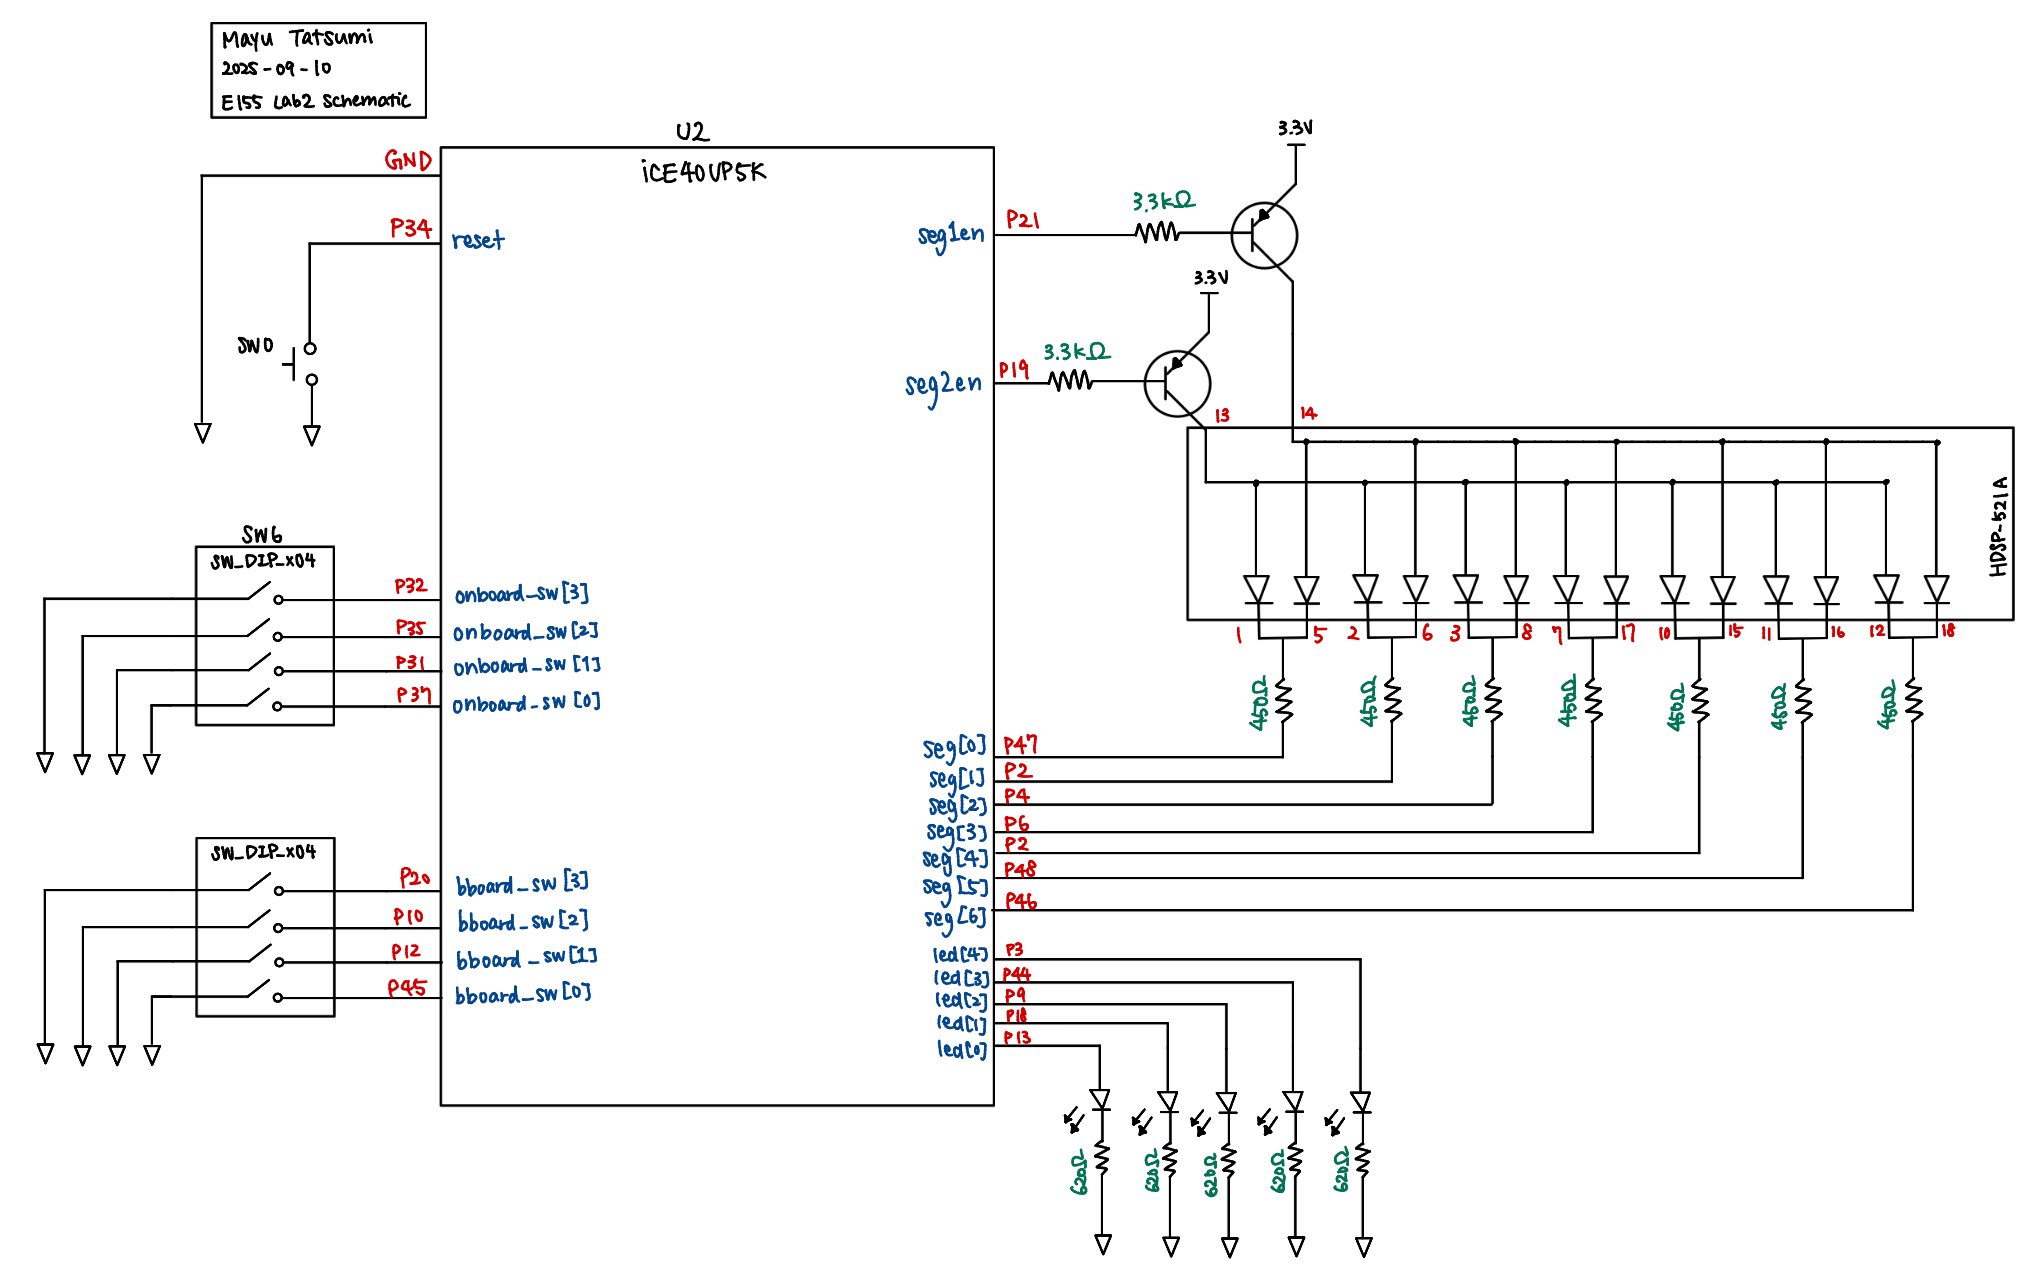
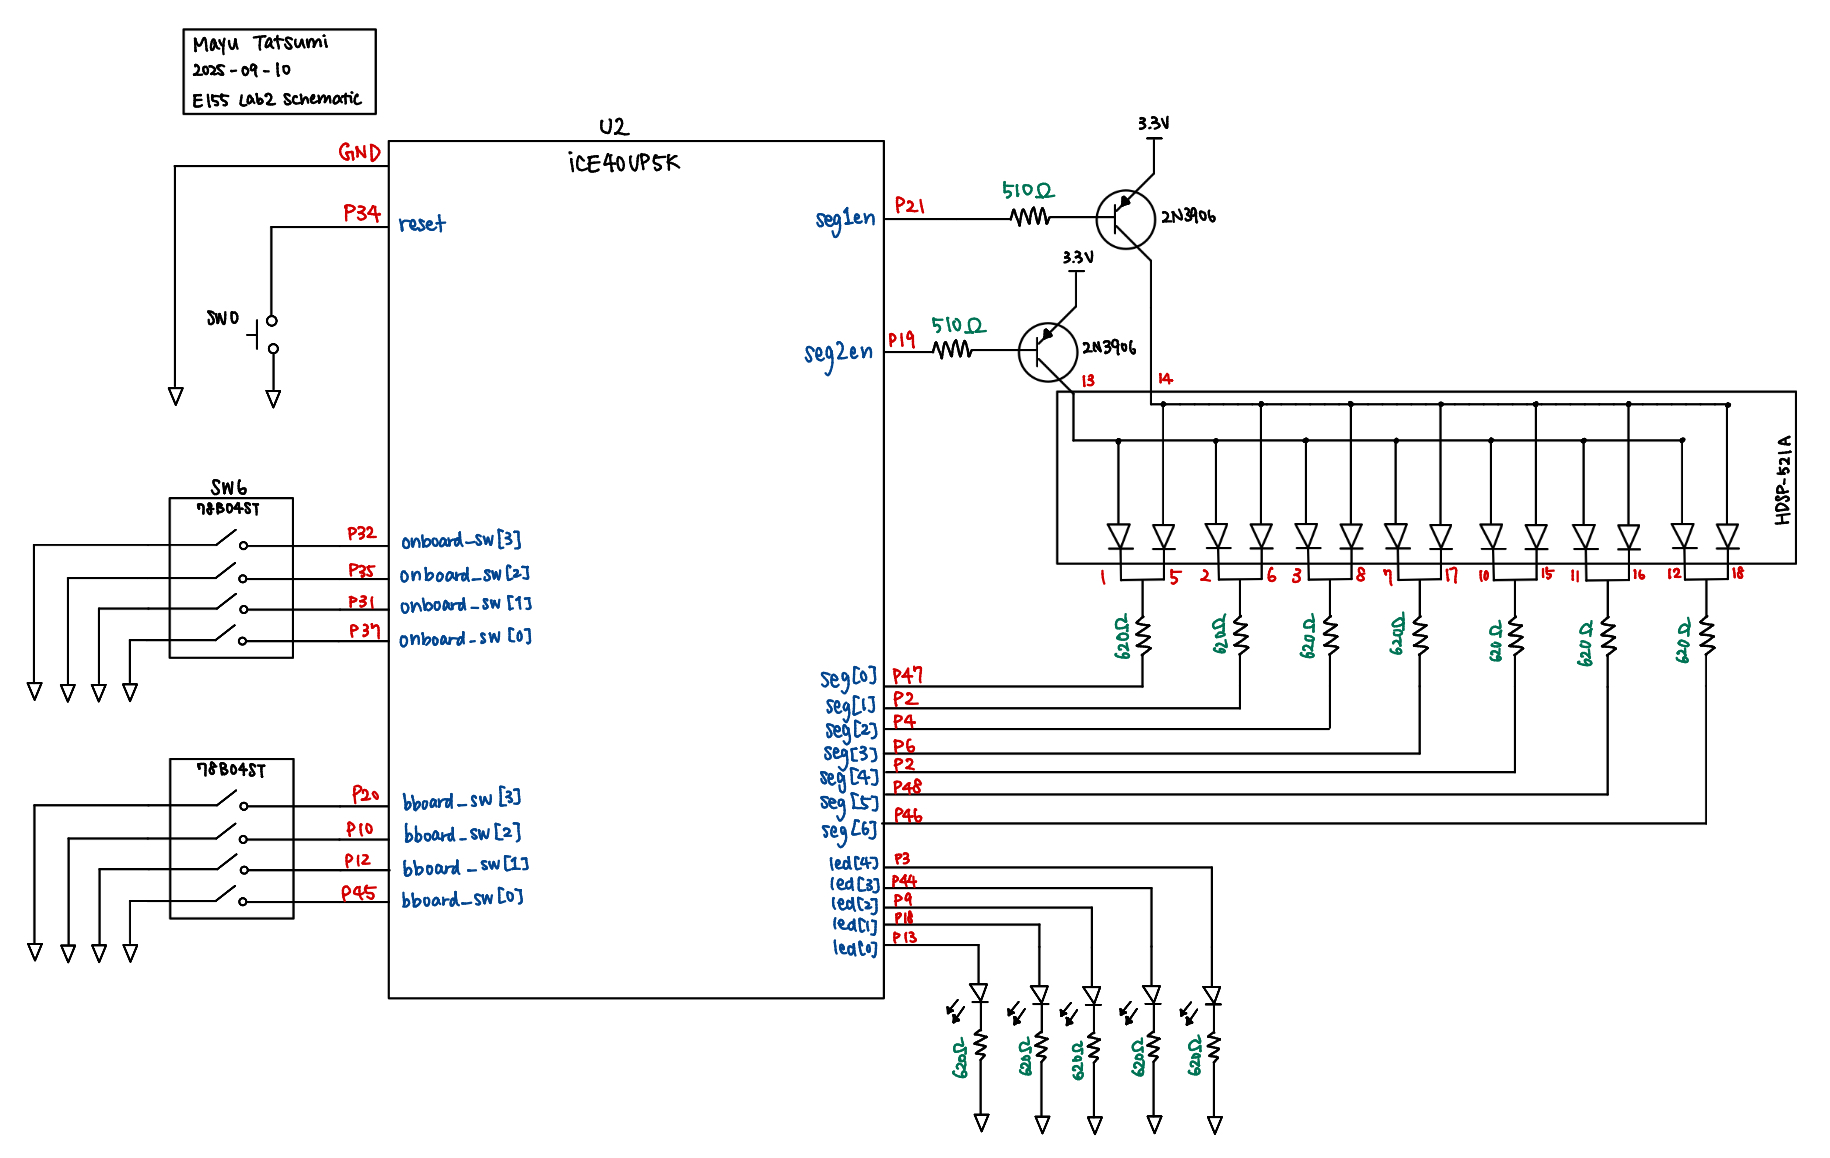
Built site for gh-pages

Changed region(s): [[0.0, 0.0, 0.9967, 0.9948]]

diff --git a/labs/lab2/lab2.html b/labs/lab2/lab2.html
@@ -220,9 +220,9 @@ window.Quarto = {
 <section id="design-and-testing-methodology" class="level2">
 <h2 class="anchored" data-anchor-id="design-and-testing-methodology">Design and Testing Methodology</h2>
 <p>The time-multiplexed dual seven-segment display was controlled by two enable signals and 7 segment values. Due to the shared resources of the wires and pins, it was necessary to oscillate the enable signals and the segment values, which each connected to the cathodes. The oscillation made sure that only one display would be on at one time, with the correct value. The enable signals each connected to the common anode of a seven-segment display, and if one was high, the other was low to ensure only one would be on. While each cathode shared a pin with the same cathode segment of the other display, the enable signals made sure that, again, only one display would be on, and that the number displayed would belong to the right display and switch.</p>
-<p>The PNP transistor was utilized to source more current. With only a 8 mA current being sourced from each pin, it was not enough to power each cathode. As a result, the PNP transistors, given a 1 mA current from the base, or the pins, collected from the 3.3V voltage source and pulled a current enough to power the seven-segment display. The 1 mA current at the base was regulated by a resistor of 3.3k <span class="math inline">\(\,\Omega\)</span>. This was calculated by <span class="math inline">\(V = IR\)</span>, where V = 3.3 V and I = 1 mA, so R = 3.3k.</p>
+<p>The PNP transistor was utilized to source more current. With only a 8 mA current being sourced from each pin, it was not enough to power each cathode. As a result, the PNP transistors, given a 5 mA current from the base, or the pins, collected from the 3.3V voltage source and pulled a current enough to power the seven-segment display. The 5 mA current at the base was regulated by a resistor of 560 <span class="math inline">\(\,\Omega\)</span>. This was calculated via Ohm’s Law, <span class="math inline">\(V = IR\)</span>, where the voltage drop was calculated by <span class="math inline">\(2.6 - 0\)</span>. The <span class="math inline">\(2.6 V\)</span> was found by negating the voltage drop from the 3.3 V emitter to the base, as given by <span class="math inline">\(V_{BE(Sat)}\)</span> from the datasheet. The <span class="math inline">\(0 V\)</span> was so due to the pin it connected to was grounded. As a result, <span class="math inline">\((2.6 - 0) / 0.05 = 520\,\Omega\)</span>, and the resistor used was a similar 510 <span class="math inline">\(\,\Omega\)</span>. The datasheet mentioned is <a href="https://hmc-e155.github.io/assets/doc/2N3906-D.pdf">linked here</a>.</p>
 <p>The resistors for the green LEDs on the breadboard were calculated by <span class="math inline">\(V = IR\)</span> as well, but this time considering the forward voltage of the green LED, approximated as 2V at a lower current test condition. Considering the voltage drop and the target current of about 2 mA, <span class="math inline">\(V = IR\)</span> reduces to <span class="math inline">\(R = (3.3 - 2) / 0.02  = 0.65\)</span>, or roughly 620 <span class="math inline">\(\,\Omega\)</span>.</p>
-<p>The resistors for the red dual seven-segment display were chosen based on the datasheet <a href="https://docs.broadcom.com/doc/HDSP-521A-523A-Dual-Digit-General-Purpose-7-Segment-Display-DS">linked here</a>. Around a forward current of 5mA, the forward voltage of each LED segment drops down to 1.8V. Knowing that the PNP transitor outputs a voltage of around 2.6 to 2.7 volts at the collector (from this datasheet <a href="https://hmc-e155.github.io/assets/doc/2N3906-D.pdf">linked here</a>), we can reconfigure Ohm’s Law to figure out the appropriate resistor. <span class="math inline">\(R = V/I = (2.7 - 1.8) / 0.002 = 450\)</span>, or roughly 470 <span class="math inline">\(\,\Omega\)</span>.</p>
+<p>The resistors for the red dual seven-segment display were chosen based on the datasheet <a href="https://docs.broadcom.com/doc/HDSP-521A-523A-Dual-Digit-General-Purpose-7-Segment-Display-DS">linked here</a>. Around a forward current of 5mA, the forward voltage of each LED segment drops down to 1.8V. Due to the <span class="math inline">\(V_{CE(Sat)} = 0.7\)</span> at a current of 1 mA, there was a voltage drop from the emitter to the collector, resulting in the collector being at roughly 3 V. Knowing this, we can reconfigure Ohm’s Law to figure out the appropriate resistor. <span class="math inline">\(R = V/I = (3.0 - 1.8) / 0.002 = 600\)</span>, or roughly 620 <span class="math inline">\(\,\Omega\)</span>.</p>
 </section>
 <section id="technical-documentation" class="level2">
 <h2 class="anchored" data-anchor-id="technical-documentation">Technical Documentation</h2>
@@ -242,10 +242,10 @@ window.Quarto = {
 <div class="quarto-figure quarto-figure-center">
 <figure class="figure">
 <p><img src="images/lab2-schem.jpg" class="img-fluid figure-img"></p>
-<figcaption>Figure 2</figcaption>
+<figcaption>Figure 2: Schematic of the external hardware used for Lab 2 design</figcaption>
 </figure>
 </div>
-<p>Figure 2 depicts the physical schematic of the design.</p>
+<p>Figure 2 depicts the physical schematic of the design. The I/O pins were maxed out, with every single one of them connected to something. Two 4-digit DIP switches were used as the input for the program, with one soldered onto the PCB and another wired into the breadbord. A green LED each connected to an I/O pin, wired to the breadboard, and connected with a 620 <span class="math inline">\(\,\Omega\)</span> current-limiting resistor. The reset was routed to a button on the board. Each cathode segment of the dual seven-segment display was connected to a pin, and the two common anodes of the display were connected from a source-generating PNP transistor, which were also connected to a pin each on the FPGA. Those pins were enabled and disabled by the <code>seg1en</code> and <code>seg2en</code> enable signals.</p>
 </section>
 </section>
 <section id="results-and-discussion" class="level2">
@@ -283,7 +283,8 @@ window.Quarto = {
 </figure>
 </div>
 <p>The design met all intended design objectives. Figures 3 to 7 show screenshots of the QuestaSim simulation of the testbenches designed for each module. Figures 8 to 12 below show screenshots of the terminal output of the testbench modules, confirming successful simulation and no errors.</p>
-<p>The <code>lab2_mt</code> top-level module’s testbench was the most robust out of all of the The <code>clk_gen</code> testbench was a relatively simple design, where it was verified that the clk was off at one point and on the other within a reasonable time frame considering its 6 MHz frequency.</p>
+<p>The <code>lab2_mt</code> top-level module’s testbench was the most robust out of all testbenches. By generating a clk within the module, it was possible to apply a stimulus, check via assert of the <code>seg</code> output, and delay some time and then check again while expecting a differing output. With each delay, opposing <code>seg1en</code> and <code>seg2en</code> signals were expected as well. <code>led</code> was expected to stay the same for either signal as long as the stimulus stayed the same.</p>
+<p>The <code>clk_gen</code> testbench was a relatively simple design, where it was verified that the clk was off at one point and on the other within a reasonable time frame considering its 6 MHz frequency. The <code>sev_seg_sel</code> testbench was similar to the <code>lab2_mt</code> testbench with delays to check timings and make sure the enable signals are switching, along with the <code>seg</code> values depending on which signal was enabled. <code>sev_seg</code> testbench was repurposed from Lab 1, with only minor naming convention changes applied. The <code>led_adder</code> testbench was simple as well, checking that the adder had the correct logic, and there was no need to consider timing at all.</p>
 <div class="quarto-figure quarto-figure-center">
 <figure class="figure">
 <p><img src="images/lab2-mt-output.png" class="img-fluid figure-img"></p>
@@ -318,6 +319,7 @@ window.Quarto = {
 </section>
 <section id="conclusion" class="level2">
 <h2 class="anchored" data-anchor-id="conclusion">Conclusion</h2>
+<p>The design made in this lab successfully operated a time-multiplexed, dual seven-segment display. They were operated by two DIP switches, which provided two 4-digit binary inputs. The sum of both numbers displayed were shown as a 5-digit binary output through green LEDs. The lab exercised knowledge in FPGA I/O pins, PNP transistor calculations, and clock timings. Total hours worked: 16 hours (Rough breakdown: 2 planning, 3 writing code, 5 testbench, 3 wiring, 3 portfolio + AI).</p>
 </section>
 <section id="ai-prototype-summary" class="level2">
 <h2 class="anchored" data-anchor-id="ai-prototype-summary">AI Prototype Summary</h2>
@@ -337,9 +339,9 @@ window.Quarto = {
 </section>
 <section id="reflection" class="level3 g-col-7">
 <h3 class="anchored" data-anchor-id="reflection">Reflection</h3>
-<p>I used Gemini’s 2.5-Flash model for this prototype. Its complete and fixed output for the first prompt is as <a href="https://github.com/mayu-tatsu/e155-lab2/tree/main/lab2_llm_1/source/impl_1">linked here</a>. It was synthesizable from the first prompt, where the two modules, <code>seven_seg_mux</code> and <code>seven_seg_decoder</code>, were provided and worked in sync with each other.</p>
-<p>There were no new idioms, at least, for me. It mostly used <code>logic</code>, <code>parameter</code>, and <code>localparam</code>, which I have been familiar with since E85. The instantiation of the resulting <code>HSOSC</code> module was a little less descriptive and seems to have been copied over from the <code>SB_HFOSC</code> instantiation idiom. This makes sense as the model seemed to simply switch out the module name, although it could become a cause of issue for other pairs of modules. The clock divider idiom was as usual. As a result, I would rate this code 8/10.</p>
-<p>In the future, I would probably LLMs to generate SystemVerilog code if I knew what kind of hardware or idioms it would use, and specify that. As an extension of that, I would also need to know what kind of onboard modules and libraries the model could use to fulfill the prompt.</p>
+<p>I used Gemini’s 2.5-Flash model for this prototype. Its complete and fixed output for the first prompt is as <a href="https://github.com/mayu-tatsu/e155-lab2/tree/main/lab2_llm_1/source/impl_1">linked here</a>. It was synthesizable from the first prompt, where the two modules, <code>seven_seg_mux</code> and <code>seven_seg_decoder</code>, were provided and worked in sync with each other. The modules were not surprising at all, and closely replicated what we created for Lab 1. While I can’t be sure about the correctness of the combinational logic in <code>seven_seg_decoder</code> due to its lack of a linked datasheet or part number, this program did synthesize. The clock divider and selector logic in <code>seven_seg_mux</code> were very standard and easy to read. The instantiation was easier to read as a result of the labeled ports as well. I would rate this an 8/10 due to the lack of transparency about the combinational logic.</p>
+<p>The second output can be found <a href="https://github.com/mayu-tatsu/e155-lab2/tree/main/lab2_llm_2/source/impl_1">here</a>. The modules <code>leds</code> and <code>sev_seg</code> were written by me for Lab 1, which was attached to the second prompt, and the module <code>seven_seg_mux</code> was generated by the LLM. There wasn’t anything totally new there either, other than a ternary operator that totally made sense but I hardly use (I know I should use it more). It was a little difficult to read becuase it had so many comments, but I think as a LLM and chatbot, it makes sense that there are a lot of redundant comments to explain its process. It was also able to mesh with my code that I provided pretty seamlessly, which was pretty cool (and scary). With synthesis being successful on the first try and decently clear code, I would rate this module a 9/10.</p>
+<p>As a result of these LLM outputs, I think I could possibly use it to help write common and/or redundant idioms. However, I am still uncertain of its ability to read datasheets and figure out the connection between software and hardware, especially regarding pin numbers and naming conventions. While coding, it may be a good idea to consult the LLM to figure out typical idioms and removing small bugs and typos, but I doubt it has the ability to create its own block diagrams and architecture from the ground up, especially without any prior documentation provided.</p>
 </section>
 </div>
 
